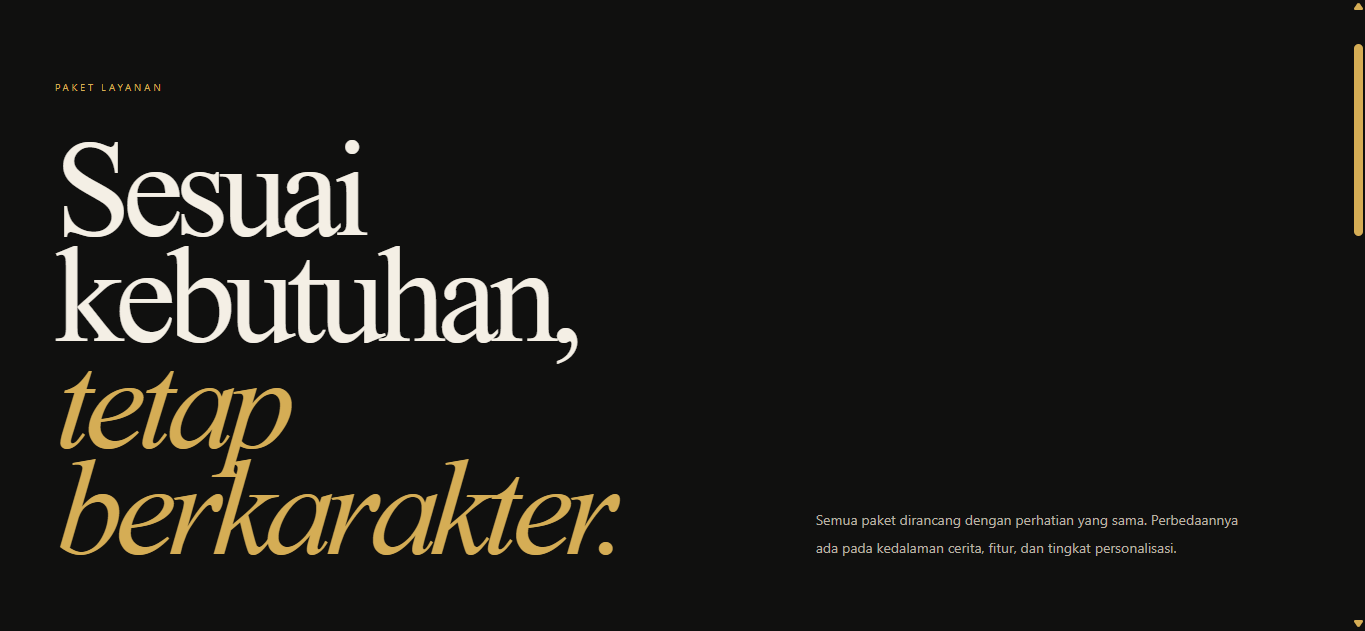
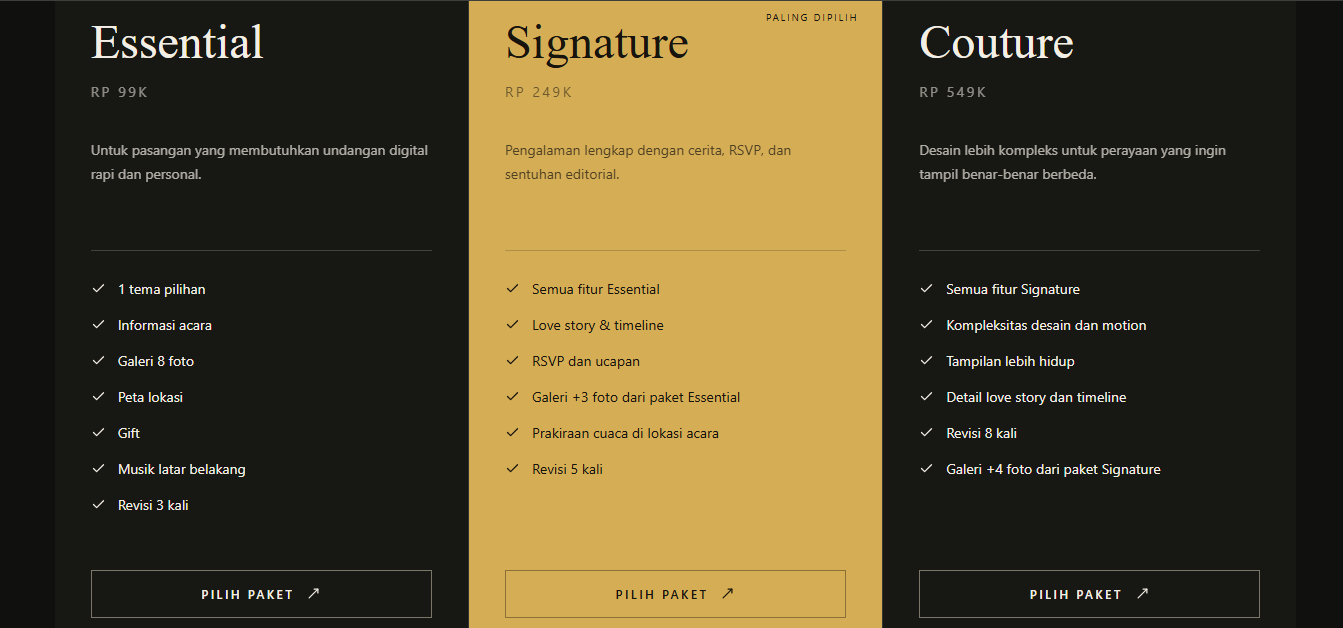
Project Update (#3)

diff --git a/src/lib/data/featured-projects.ts b/src/lib/data/featured-projects.ts
@@ -121,38 +121,36 @@ export const featuredProjects: FeaturedProject[] = [
     status: 'Development',
     role: 'Full Stack Developer',
     shortDescription:
-      'Wedding Web / Niskala Digital Wedding Invitation adalah platform undangan pernikahan digital bilingual untuk pasangan dan vendor wedding yang membutuhkan alur produksi undangan yang rapi, personal, dan siap operasional. Project ini bukan hanya landing page, tetapi sistem full-stack yang mengelola katalog tema dan paket, render undangan berbasis data, RSVP tamu, prakiraan cuaca BMKG, dashboard client, dashboard staff, order pipeline, audit trail, media, dan pembayaran yang siap diintegrasikan dengan Midtrans.',
+      'Wedding Web / Niskala Digital Wedding Invitation adalah platform undangan pernikahan digital bilingual untuk pasangan dan vendor wedding yang membutuhkan alur produksi undangan yang rapi, personal, dan siap operasional. Project ini bukan hanya landing page, tetapi sistem full-stack yang mengelola katalog tema dan paket, render undangan berbasis data, RSVP tamu, prakiraan cuaca Open-Meteo, dashboard client, dashboard staff, order pipeline, audit trail, media, dan pembayaran yang siap diintegrasikan dengan Midtrans.',
     shortDescription_en:
-      'Wedding Web / Niskala Digital Wedding Invitation is a bilingual digital wedding invitation platform for couples and wedding vendors who need a neat, personalized, and operational invitation production process. This project is not just a landing page, but a full-stack system that manages theme and package catalogs, data-driven invitation rendering, guest RSVPs, BMKG weather forecasts, client dashboards, staff dashboards, order pipelines, audit trails, media, and payments that are ready to be integrated with Midtrans.',
+      'Wedding Web / Niskala Digital Wedding Invitation is a bilingual digital wedding invitation platform for couples and wedding vendors who need a neat, personalized, and operational invitation production process. This project is not just a landing page, but a full-stack system that manages theme and package catalogs, data-driven invitation rendering, guest RSVPs, Open-Meteo weather forecasts, client dashboards, staff dashboards, order pipelines, audit trails, media, and payments that are ready to be integrated with Midtrans.',
     problem:
       'Undangan digital berhenti di sisi visual: tema cantik, halaman publik, dan form sederhana. Masalah operasional acak: revisi via chat, status order tidak terpusat, data tamu sulit dilacak, konten undangan tidak tervalidasi, media bercampur dengan data bisnis, serta kebutuhan client dan staff berada di tempat berbeda.',
     problem_en:
       'Digital invitations stop at the visual side: beautiful themes, public pages, and simple forms. Operational issues arise: chat revisions, non-centralized order status, difficult to track guest data, unvalidated invitation content, mixed media with business data, and client and staff needs being in different locations.',
     solution:
-      'Project ini menyelesaikan masalah tersebut dengan platform terstruktur: frontend Next.js untuk pengalaman publik dan dashboard, backend Django REST API untuk data bisnis dan permissions, PostgreSQL sebagai source of truth, Redis/Celery untuk cache dan pekerjaan async, Cloudinary untuk media, BMKG untuk prakiraan cuaca, serta model role-based untuk staff dan client. Arsitekturnya jelas memisahkan public API, staff API, client API, dan payment API sehingga produk bisa berkembang dari katalog undangan menjadi workflow produksi invitation yang lebih profesional.',
+      'Project ini menyelesaikan masalah tersebut dengan platform terstruktur: frontend Next.js untuk pengalaman publik dan dashboard, backend Django REST API untuk data bisnis dan permissions, PostgreSQL sebagai source of truth, Redis/Celery untuk cache dan pekerjaan async, Cloudinary untuk media, Open-Meteo untuk prakiraan cuaca, serta model role-based untuk staff dan client. Arsitekturnya jelas memisahkan public API, staff API, client API, dan payment API sehingga produk bisa berkembang dari katalog undangan menjadi workflow produksi invitation yang lebih profesional.',
     solution_en:
-      'This project solves these problems with a structured platform: a Next.js frontend for the public experience and dashboard, a Django REST API backend for business data and permissions, PostgreSQL as the source of truth, Redis/Celery for caching and async jobs, Cloudinary for media, BMKG for weather forecasts, and a role-based model for staff and clients. The architecture clearly separates the public API, staff API, client API, and payment API so the product can evolve from an invitation catalog to a more professional invitation production workflow.',
-    techStack: ['Next.js 16', 'React 19', 'TypeScript', 'Tailwind CSS', 'Framer Motion', 'GSAP', 'Zod', 'Sentry', 'Django 5.2', 'Django REST Framework', 'drf-spectacular/OpenAPI', 'PostgreSQL', 'Redis', 'Celery', 'Cloudinary', 'Midtrans', 'BMKG API'],
+      'This project solves these problems with a structured platform: a Next.js frontend for the public experience and dashboard, a Django REST API backend for business data and permissions, PostgreSQL as the source of truth, Redis/Celery for caching and async jobs, Cloudinary for media, Open-Meteo for weather forecasts, and a role-based model for staff and clients. The architecture clearly separates the public API, staff API, client API, and payment API so the product can evolve from an invitation catalog to a more professional invitation production workflow.',
+    techStack: ['Next.js 16', 'React 19', 'TypeScript', 'Tailwind CSS', 'Framer Motion', 'GSAP', 'Zod', 'Sentry', 'Django 5.2', 'Django REST Framework', 'drf-spectacular/OpenAPI', 'PostgreSQL', 'Redis', 'Celery', 'Cloudinary', 'Open-Meteo API', 'Cloidflare', 'Whatsapp Cloud API', 'Docker'],
     features: [
       'Website publik bilingual Indonesia/English dengan halaman home, tema, paket, preview tema, dan CTA WhatsApp',
       'Renderer undangan berbasis registry dan versioning, sehingga tema bisa dikembangkan tanpa merusak undangan lama',
       'Halaman undangan publik via publicSlug, berisi nama pasangan, informasi acara, lokasi, cerita,  backsound, dan cuaca',
-      'Integrasi prakiraan cuaca BMKG berbasis lokasi administrasi tingkat IV; BMKG menyediakan data prakiraan 3 hari, format JSON, dan wajib dicantumkan sebagai sumber data (Sumber: data.bmkg.go.id)',
+      'Integrasi prakiraan cuaca Open-Meteo berbasis longitude dan latitude; Open-Meteo menyediakan data prakiraan 16 hari',
       'RSVP publik untuk tamu',
       'Dashboard client untuk review draft, update konten, submit revisi, approve publish, dan export tamu',
       'Dashboard staff untuk order queue, leads, metrics, assignment staff, audit trail, katalog tema/paket, media, dan publishing workflow',
-      'Payment model Midtrans-ready dengan invoice, status pembayaran, idempotency key, webhook event, dan audit state. Midtrans menyediakan payment API, checkout, payment link, dan invoicing untuk web/app (Sumber: docs.midtrans.com)',
       'Security defaults: permission default authenticated, serializer publik dipisah, CSRF/session auth, throttling, CSP, secrets via environment, Cloudinary signing server-side, dan audit event untuk mutasi sensitif',
     ],
     features_en: [
       'A bilingual Indonesian/English public website with a homepage, themes, packages, theme previews, and WhatsApp CTAs',
       'Registry-based and versioned invitation renderer, allowing themes to be developed without breaking existing invitations',
       'Public invitation page via publicSlug, containing the couples name, event information, location, story, background music, and weather',
-      'Integration of BMKG weather forecasts based on location-based level IV administration; BMKG provides 3-day forecast data in JSON format, and must be listed as a data source (Source: data.bmkg.go.id)',
+      'Integration of Open-Meteo weather forecasts based on longitude and latitude; Open-Meteo provides 16-day',
       'Public RSVP for guests',
       'Client dashboard for reviewing drafts, updating content, submitting revisions, approving publishing, and exporting guest posts',
       'Staff dashboard for order queue, leads, metrics, staff assignments, audit trail, theme/package catalogue, media, and publishing workflow',
-      'Midtrans payment model is ready with invoices, payment status, idempotency keys, webhook events, and audit state. Midtrans provides payment APIs, checkout, payment links, and invoicing for web/apps (Source: docs.midtrans.com)',
       'Security defaults: permission default authenticated, public serializer separated, CSRF/session auth, throttling, CSP, secrets via environment, Cloudinary server-side signing, and event auditing for sensitive transactions',
     ],
     coverImage: '/projects/wedding-web/cover.png',
